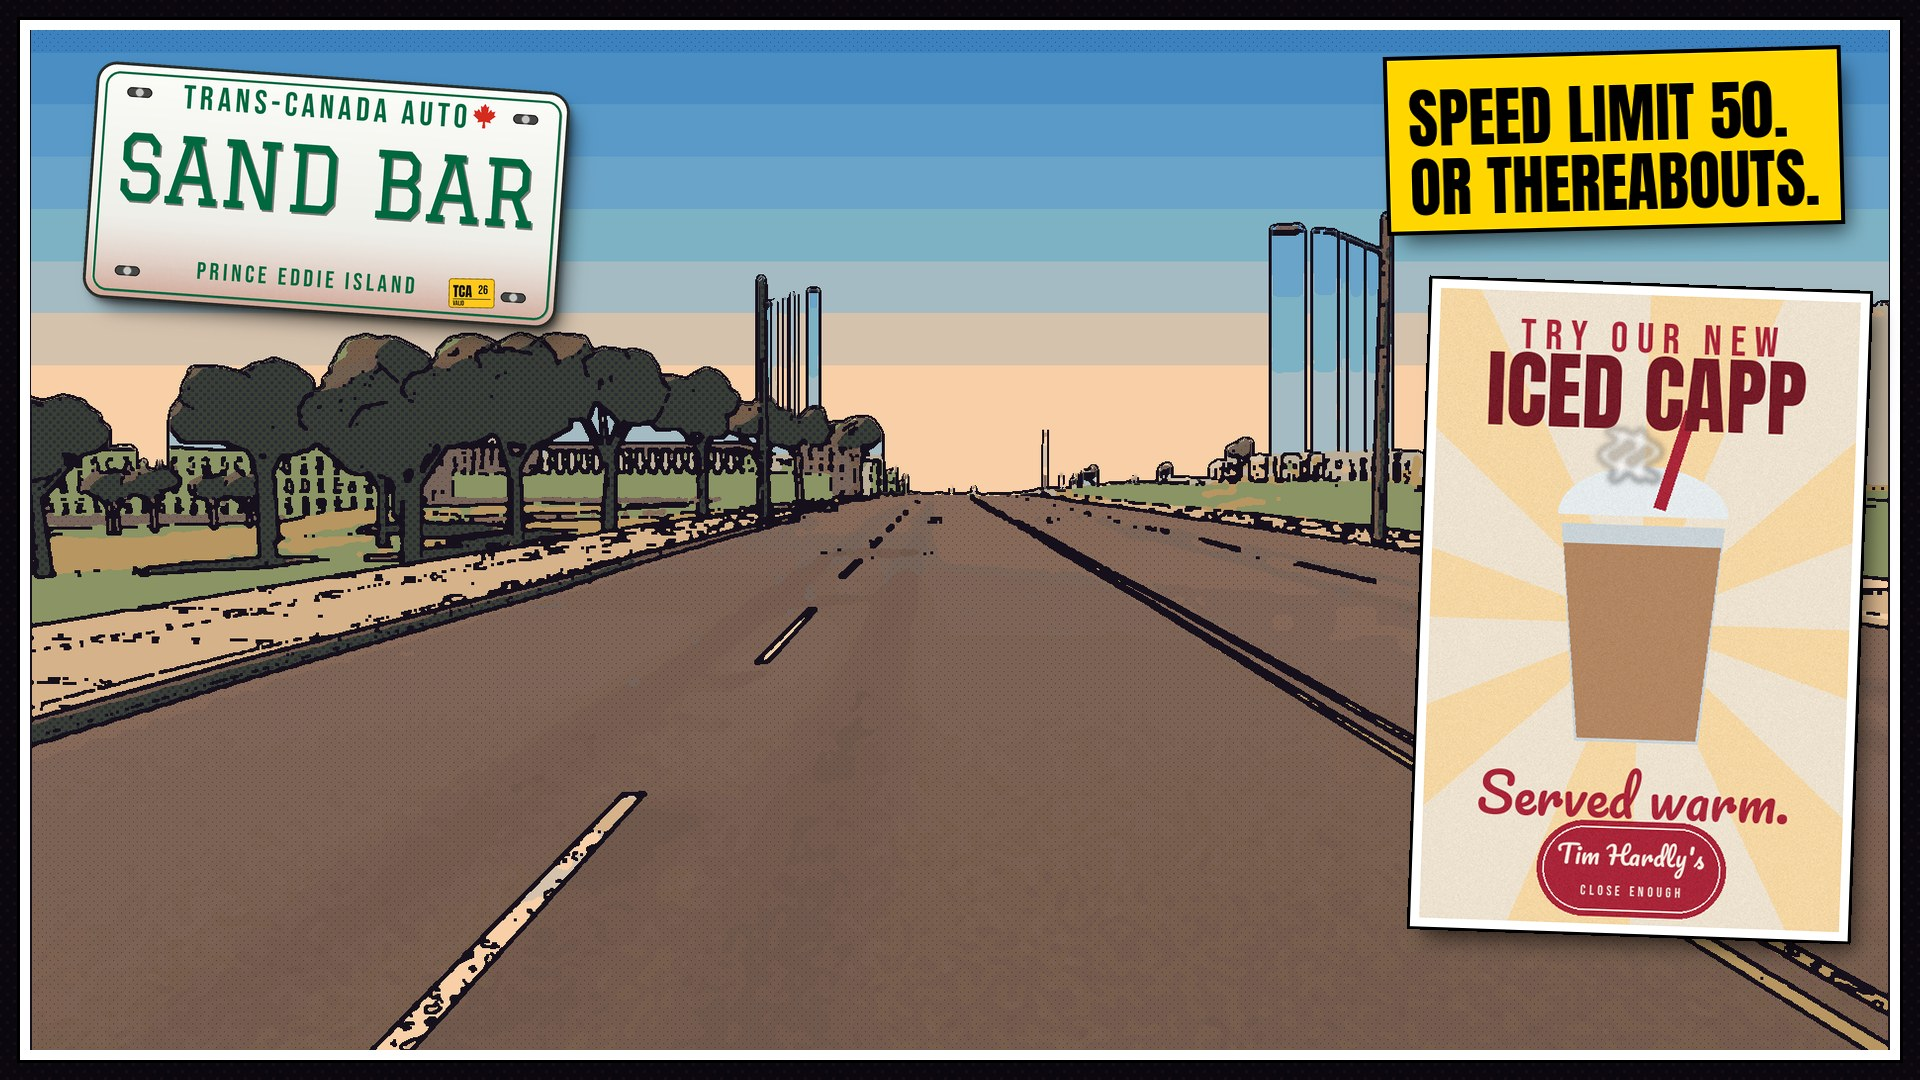
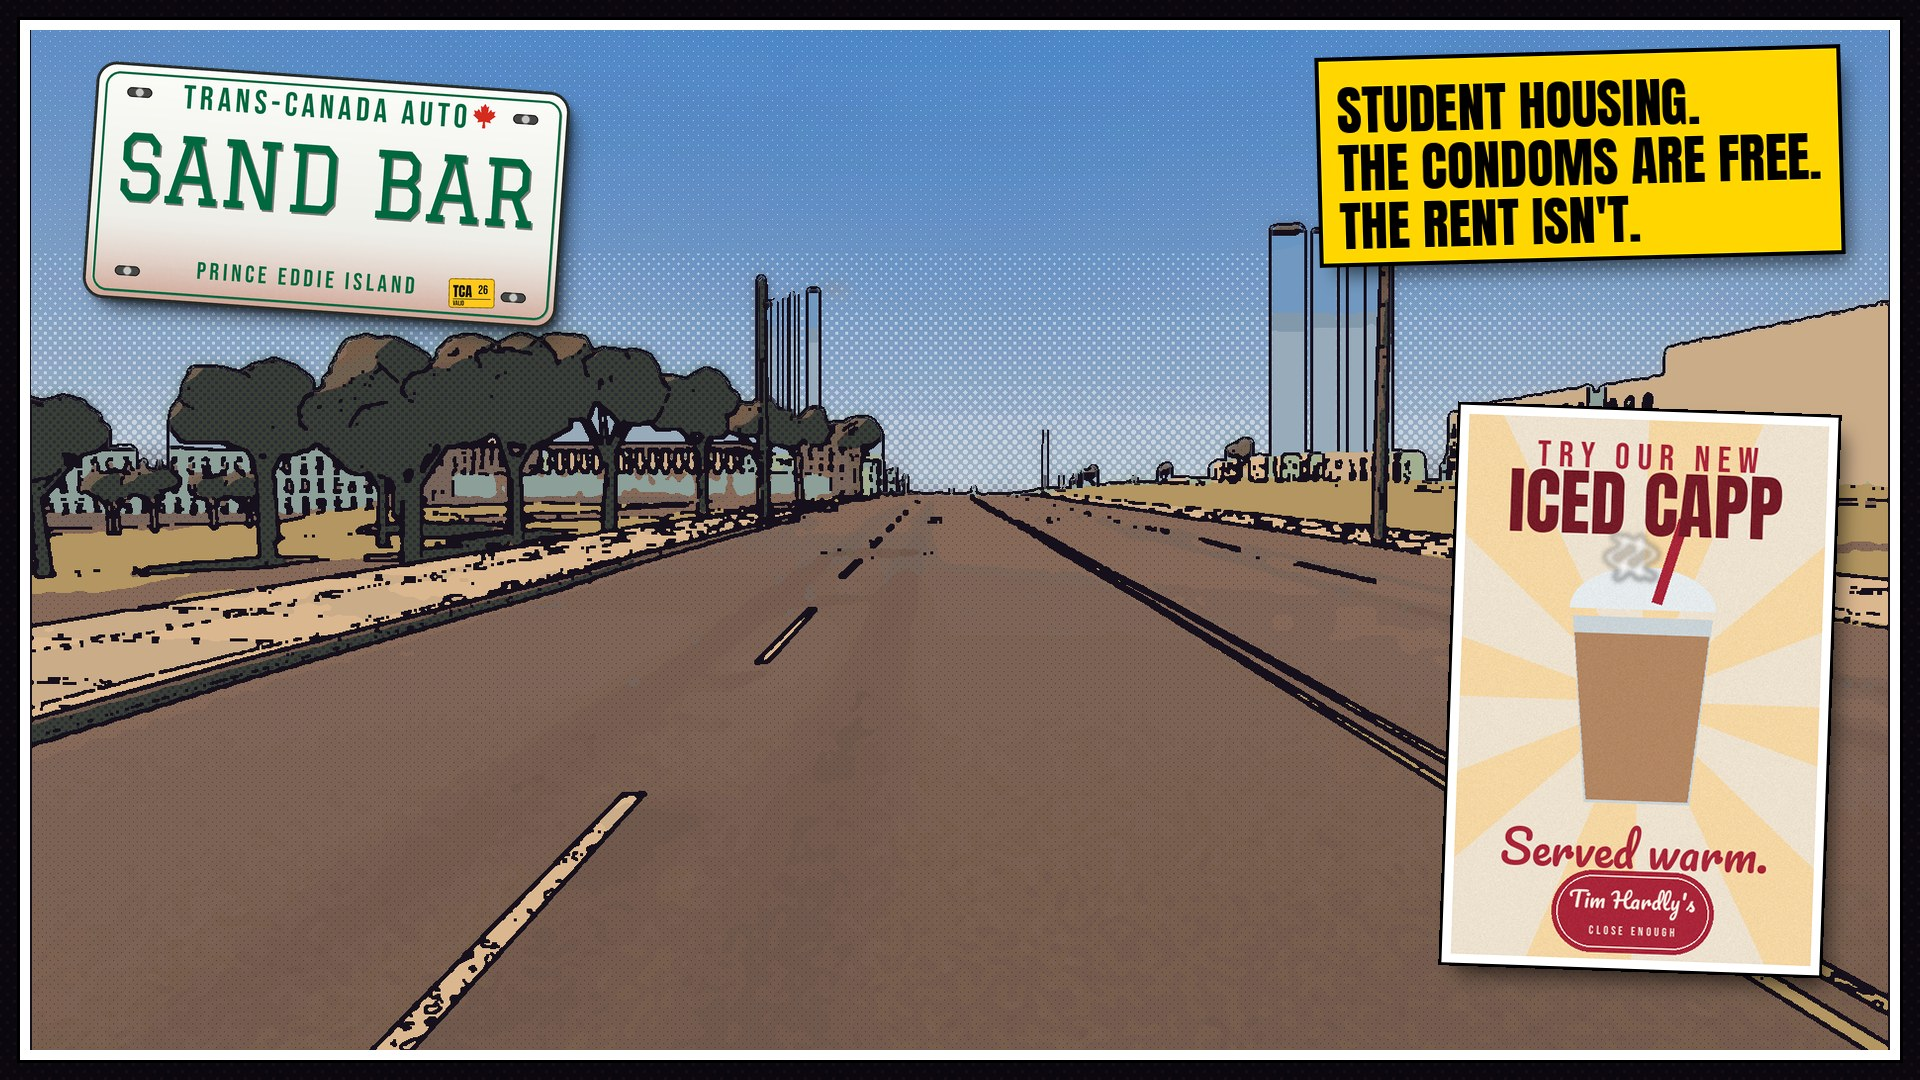
Loading screens under the game's own sky, and new captions
The banded synthwave sunset and striped sun read as copying the other
series, so the panels keep the screenshot's real blue sky, printed with
a white dot screen toward the horizon. Same panels, plate and ads. The
town's Sand Bar billboards and the itch.io images share the look and are
redrawn with it.

New captions: "Your ex is dating your other ex", the fogged windows in
the megastore lot, the Victoria Park benches, last call downtown ("your
nan knows their nan") and student housing ("the condoms are free, the
rent isn't"); and a loading tip about fogged windows in Victoria Park.

Claude-Session: https://claude.ai/code/session_0115Cjrb8d15E6Hnq2mzJ52m

diff --git a/tools/make_branding.py b/tools/make_branding.py
@@ -7,9 +7,10 @@ edition, titled the way their editions are, with the edition's name the
 big thing; ours is stamped on a licence plate: green on white like the
 Island's, "TRANS-CANADA AUTO" where the province goes, "SAND BAR" in the
 middle, a made-up province along the bottom, and TCA on the renewal
-sticker. The loading screens are tilted comic-book panels over a
-screen-printed sunset. The panels are the game's own screenshots
-(branding/screens/), inked and halftoned here, with captions in our own voice.
+sticker. The loading screens are tilted comic-book panels of the game's
+own screenshots (branding/screens/), inked and halftoned here under the
+game's own blue sky, with captions in our own voice. No synthwave sunset:
+that's the other series' look, not the Island's.
 
 Everything is drawn from the screenshots, shapes and the free fonts in
 tools/fonts/, so it can be changed and redrawn any time. Run from the
@@ -56,14 +57,6 @@ YELLOW = (255, 214, 0)
 LEAF_RIGHT = [(50, 0), (57, 13), (65, 9), (62, 36), (74, 22), (77, 30), (90, 27), (86, 41),
               (93, 45), (72, 62), (75, 71), (54, 68), (55, 92)]
 LEAF = LEAF_RIGHT + [(100 - x, y) for x, y in reversed(LEAF_RIGHT[1:])]
-
-# Sky ramps for the panels, top of the sky to the horizon.
-SUNSET = [(0.0, (38, 52, 110)), (0.35, (120, 70, 140)), (0.62, (236, 104, 86)),
-          (0.85, (252, 168, 82)), (1.0, (255, 214, 140))]
-DUSK = [(0.0, (16, 22, 60)), (0.4, (52, 44, 110)), (0.7, (170, 70, 120)),
-        (0.9, (240, 120, 96)), (1.0, (255, 170, 110))]
-MORNING = [(0.0, (60, 130, 190)), (0.45, (120, 180, 214)), (0.75, (246, 200, 160)),
-           (1.0, (255, 226, 180))]
 
 
 def font(name, size):
@@ -337,52 +330,36 @@ def _sky_mask(img):
     return Image.fromarray(run).filter(ImageFilter.GaussianBlur(1.2))
 
 
-def _sky(w, h, horizon, stops, sun):
-    """A banded, screen-printed sky with a striped sun sinking at the horizon."""
-    sky = Image.new("RGB", (w, h))
-    d = ImageDraw.Draw(sky)
-    bands = 9
-    for y in range(h):
-        t = round(min(1.0, y / max(1, horizon)) * bands) / bands
-        d.line([(0, y), (w, y)], fill=_ramp(t, stops))
-    if sun:
-        sx, r = sun[0] * w, sun[1] * h
-        sy = horizon - r * 0.35
-        disc = Image.new("L", (w, h), 0)
-        dd = ImageDraw.Draw(disc)
-        dd.ellipse([sx - r, sy - r, sx + r, sy + r], fill=255)
-        # the stripes across the lower half, thicker toward the bottom
-        y, k = sy, 0
-        while y < sy + r:
-            gapw = 2 + k * 2.2 * (r / 120)
-            dd.rectangle([sx - r, y, sx + r, y + gapw], fill=0)
-            y += gapw + r * 0.12
-            k += 1
-        top, bottom = (255, 236, 120), (255, 92, 70)
-        grad = Image.new("RGB", (w, h))
-        gd = ImageDraw.Draw(grad)
-        for yy in range(int(sy - r), int(sy + r) + 1):
-            gd.line([(0, yy), (w, yy)], fill=_ramp((yy - (sy - r)) / (2 * r), [(0, top), (1, bottom)]))
-        sky.paste(grad, (0, 0), disc)
+def _sky(img, m, dot=10):
+    """The game's own sky, kept: smoothed, a touch bluer, and printed with
+    a white dot screen that thickens toward the horizon, the way a comic
+    shades a sky. (It used to be a banded sunset with a striped sun, which
+    looked like we were copying someone else's sunset.)"""
+    w, h = img.size
+    sky = img.filter(ImageFilter.GaussianBlur(6))
+    sky = ImageEnhance.Color(sky).enhance(1.25)
+    rows = np.asarray(m).sum(axis=1) / 255
+    clear = np.nonzero(rows < w * 0.02)[0]
+    horizon = max(int(clear[0]) if len(clear) else h // 2, h // 4)
+    yy, xx = np.mgrid[0:h, 0:w]
+    t = np.clip(yy / horizon, 0, 1) ** 1.5
+    r = np.hypot(((xx + yy) % dot) - dot / 2, ((xx - yy) % dot) - dot / 2)
+    dots = ((r < t * dot * 0.42) * 120).astype(np.uint8)
+    sky.paste((255, 255, 255), (0, 0, w, h), Image.fromarray(dots))
     return sky
 
 
-def comic(img, stops=SUNSET, sun=None, colors=28, dot=8):
-    """A screenshot as a comic panel: the sky swapped for a printed sunset,
-    the colours flattened, ink round the shapes and halftone in the shadows."""
+def comic(img, colors=28, dot=8):
+    """A screenshot as a comic panel: the colours flattened, ink round the
+    shapes, halftone in the shadows, and the sky the game's own."""
     img = img.convert("RGB")
     w, h = img.size
     m = _sky_mask(img)
-    rows = np.asarray(m).sum(axis=1) / 255
-    clear = np.nonzero(rows < w * 0.02)[0]
-    horizon = int(clear[0]) if len(clear) else h // 2
-    sky = _sky(w, h, max(horizon, h // 4), stops, sun)
     src = img.filter(ImageFilter.MedianFilter(7)).filter(ImageFilter.MedianFilter(5))
     src = ImageEnhance.Color(src).enhance(1.5)
     src = ImageEnhance.Contrast(src).enhance(1.15)
     a = np.asarray(src).astype(np.float32) * np.array([1.06, 0.99, 0.9]) + np.array([8, 0, -4])
     src = Image.fromarray(np.clip(a, 0, 255).astype(np.uint8))
-    src = Image.composite(sky, src, m)
     flat = src.quantize(colors=colors, method=Image.Quantize.MEDIANCUT, dither=Image.Dither.NONE).convert("RGB")
     flat = flat.filter(ImageFilter.ModeFilter(7))
     # Ink: the edges of the scene (none inside the sky), and the skyline.
@@ -391,14 +368,14 @@ def comic(img, stops=SUNSET, sun=None, colors=28, dot=8):
     e = e.filter(ImageFilter.MaxFilter(3)).filter(ImageFilter.GaussianBlur(1.0)).point(lambda v: 255 if v > 100 else 0)
     ink = np.asarray(e).astype(np.float32) * (1 - np.asarray(m).astype(np.float32) / 255)
     ink += (np.asarray(m.filter(ImageFilter.FIND_EDGES)) > 40) * 255.0
-    out = flat.copy()
-    out.paste(INK, (0, 0, w, h), Image.fromarray(np.clip(ink, 0, 255).astype(np.uint8)))
     # Halftone dots in the shadows, on a 45 degree screen.
     lum = np.asarray(ImageOps.grayscale(flat)).astype(np.float32) / 255
     yy, xx = np.mgrid[0:h, 0:w]
     r = np.hypot(((xx + yy) % dot) - dot / 2, ((xx - yy) % dot) - dot / 2)
     dark = np.clip((0.5 - lum) / 0.5, 0, 1)
-    out.paste((30, 20, 50), (0, 0, w, h), Image.fromarray(((r < dark * dot * 0.6) * 110).astype(np.uint8)))
+    flat.paste((30, 20, 50), (0, 0, w, h), Image.fromarray(((r < dark * dot * 0.6) * 110).astype(np.uint8)))
+    out = Image.composite(_sky(img, m), flat, m)
+    out.paste(INK, (0, 0, w, h), Image.fromarray(np.clip(ink, 0, 255).astype(np.uint8)))
     return out
 
 
@@ -464,19 +441,19 @@ def cover_screen():
     img = _backdrop(W, H)
     panels = [
         # art, (cx, cy), (w, h), angle, caption, caption corner
-        (comic(_screen("downtown"), SUNSET, sun=(0.82, 0.16)), (330, 170), (600, 300), 1.2,
-         "Everyone here\nknows your mother.", "bl"),
-        (comic(_screen("megastore"), DUSK, sun=(0.2, 0.25)), (960, 160), (560, 290), -1.3,
-         "Parking lot the\nsize of Summerside.", "br"),
-        (comic(_screen("macdougalls"), DUSK, sun=(0.15, 0.2)), (1592, 172), (600, 305), -0.8,
+        (comic(_screen("downtown")), (330, 170), (600, 300), 1.2,
+         "Your ex is dating\nyour other ex.", "bl"),
+        (comic(_screen("megastore")), (960, 160), (560, 290), -1.3,
+         "Biggest lot in town.\nWindows fog up by ten.", "br"),
+        (comic(_screen("macdougalls")), (1592, 172), (600, 305), -0.8,
          "Breakfast until 11.\nNo exceptions.", "br"),
-        (comic(_screen("victoria-park"), MORNING), (300, 540), (520, 290), -1.8,
-         "The harbour's that way.\nEverything's that way.", "tl"),
-        (comic(_screen("roundabout"), SUNSET), (310, 912), (580, 300), -1.4,
+        (comic(_screen("victoria-park")), (300, 540), (520, 290), -1.8,
+         "Victoria Park. The\nbenches have seen things.", "tl"),
+        (comic(_screen("roundabout")), (310, 912), (580, 300), -1.4,
          "Yield. Then yield\nagain. Then go.", "tl"),
-        (comic(_screen("gas-station"), MORNING), (960, 922), (560, 290), 0.9,
+        (comic(_screen("gas-station")), (960, 922), (560, 290), 0.9,
          "Fill 'er up.\nSay sorry.", "tr"),
-        (comic(_screen("riverside"), SUNSET, sun=(0.47, 0.22)), (1600, 905), (600, 310), 1.6,
+        (comic(_screen("riverside")), (1600, 905), (600, 310), 1.6,
          "Nobody locks\ntheir car here.", "bl"),
     ]
     for art, (cx, cy), (w, h), ang, cap, corner in panels:
@@ -494,14 +471,14 @@ def cover_screen():
     return img.convert("RGB")
 
 
-def hero_screen(shot, stops, sun, caption, inset, inset_pos, focus=(0.5, 0.5)):
+def hero_screen(shot, caption, inset, inset_pos, focus=(0.5, 0.5)):
     """One big panel filling the screen, a smaller tilted panel tucked in,
     the wordmark in the corner and a caption across it. A long caption
     (more than two lines) is set smaller, and the inset sits lower to
     make room for it."""
     W, H = 1920, 1080
     img = _backdrop(W, H)
-    art = comic(_fill(_screen(shot), 1880, 1040, focus), stops, sun=sun)
+    art = comic(_fill(_screen(shot), 1880, 1040, focus))
     _place(img, _panel(art, 1860, 1020, 0.0, border=10), W / 2, H / 2, shadow=False)
     long = caption.count("\n") >= 2
     iw = 360 if long else 420
@@ -516,16 +493,16 @@ def hero_screen(shot, stops, sun, caption, inset, inset_pos, focus=(0.5, 0.5)):
 def loading_screens():
     return [
         cover_screen(),
-        hero_screen("riverside", SUNSET, (0.5, 0.2), "Nobody locks their car here.\nJust saying.",
+        hero_screen("riverside", "Nobody locks their car here.\nJust saying.",
                     _ad("windys_greasy"), (1640, 600, -3.0)),
-        hero_screen("queen-street", DUSK, (0.2, 0.18), "Island time\nis not a speed.",
+        hero_screen("queen-street", "Last call downtown.\nWhoever you go home with,\nyour nan knows their nan.",
                     _ad("macdougalls_flurry"), (1650, 620, 2.5)),
-        hero_screen("university", MORNING, None, "Speed limit 50.\nOr thereabouts.",
+        hero_screen("university", "Student housing.\nThe condoms are free.\nThe rent isn't.",
                     _ad("tim_hardlys_iced_capp"), (1640, 610, -2.0)),
-        hero_screen("roundabout", SUNSET, (0.7, 0.15),
+        hero_screen("roundabout",
                     "We have roundabouts.\nAnd roundabouts.\nAnd roundabouts.\nAnd roundabouts.",
                     _ad("tim_hardlys_bagel"), (1660, 620, 3.0)),
-        hero_screen("gas-station", DUSK, (0.3, 0.2),
+        hero_screen("gas-station",
                     "Sorry about the pollution plant.\nSmells like shit all the time.\n"
                     "But you can blame\nyour girlfriend if you want.",
                     _ad("tim_hardlys_hiring"), (1680, 620, -2.5)),
@@ -538,26 +515,26 @@ ADS_OUT = os.path.join(ROOT, "textures", "ads")
 
 # The Sand Bar Tourism Board's billboards: the loading screens' look out on
 # the roads, each put up where it's true (tools/place_billboards.py --near,
-# see TOURISM_BOARDS there). Name: caption, screenshot, sky, sun.
+# see TOURISM_BOARDS there). Name: caption, screenshot.
 TOURISM = {
     "sandbar_bb_roundabouts": ("We have roundabouts.\nAnd roundabouts.\nAnd roundabouts.\nAnd roundabouts.",
-                               "roundabout", SUNSET, (0.75, 0.2)),
+                               "roundabout"),
     "sandbar_bb_plant": ("Sorry about the pollution plant.\nSmells like shit all the time.\n"
-                         "But you can blame\nyour girlfriend if you want.", "gas-station", DUSK, (0.25, 0.22)),
-    "sandbar_bb_recycling": ("That smoke?\nThat's your recycling.\nWe tried.", "megastore", DUSK, (0.2, 0.25)),
-    "sandbar_bb_nurse": ("Drive safe.\nThe nurse is your cousin.", "downtown", SUNSET, (0.82, 0.16)),
-    "sandbar_bb_speed": ("Speed limit 50.\nOr thereabouts.", "university", MORNING, None),
-    "sandbar_bb_mother": ("Everyone here knows\nyour mother.\nDrive accordingly.", "queen-street", DUSK, (0.2, 0.18)),
-    "sandbar_bb_locks": ("Nobody locks\ntheir car here.\nJust saying.", "riverside", SUNSET, (0.5, 0.2)),
-    "sandbar_bb_island_time": ("Island time\nis not a speed.", "victoria-park", MORNING, None),
+                         "But you can blame\nyour girlfriend if you want.", "gas-station"),
+    "sandbar_bb_recycling": ("That smoke?\nThat's your recycling.\nWe tried.", "megastore"),
+    "sandbar_bb_nurse": ("Drive safe.\nThe nurse is your cousin.", "downtown"),
+    "sandbar_bb_speed": ("Speed limit 50.\nOr thereabouts.", "university"),
+    "sandbar_bb_mother": ("Everyone here knows\nyour mother.\nDrive accordingly.", "queen-street"),
+    "sandbar_bb_locks": ("Nobody locks\ntheir car here.\nJust saying.", "riverside"),
+    "sandbar_bb_island_time": ("Island time\nis not a speed.", "victoria-park"),
     # the ones that go round on boards anywhere in town
-    "sandbar_bb_from_away": ("Come from away?\nWe can tell.\nYou signal.", "riverside", DUSK, (0.3, 0.2)),
-    "sandbar_bb_seasons": ("Four seasons:\nAlmost winter. Winter.\nStill winter. Road work.", "university", MORNING, None),
-    "sandbar_bb_lobster": ("Lobster used to be\nprison food.\nNow it's forty bucks.", "victoria-park", SUNSET, (0.7, 0.2)),
-    "sandbar_bb_red_dirt": ("The red dirt\ndoesn't wash out.\nWe've tried.", "roundabout", DUSK, (0.3, 0.15)),
-    "sandbar_bb_aunt": ("Your aunt saw that.\nEveryone will know\nby supper.", "queen-street", SUNSET, (0.75, 0.18)),
-    "sandbar_bb_potatoes": ("Potatoes.\nWe have them.\nDon't ask how many.", "megastore", MORNING, None),
-    "sandbar_bb_bridge": ("The bridge is 13 km.\nThe gossip is faster.", "downtown", DUSK, (0.82, 0.16)),
+    "sandbar_bb_from_away": ("Come from away?\nWe can tell.\nYou signal.", "riverside"),
+    "sandbar_bb_seasons": ("Four seasons:\nAlmost winter. Winter.\nStill winter. Road work.", "university"),
+    "sandbar_bb_lobster": ("Lobster used to be\nprison food.\nNow it's forty bucks.", "victoria-park"),
+    "sandbar_bb_red_dirt": ("The red dirt\ndoesn't wash out.\nWe've tried.", "roundabout"),
+    "sandbar_bb_aunt": ("Your aunt saw that.\nEveryone will know\nby supper.", "queen-street"),
+    "sandbar_bb_potatoes": ("Potatoes.\nWe have them.\nDon't ask how many.", "megastore"),
+    "sandbar_bb_bridge": ("The bridge is 13 km.\nThe gossip is faster.", "downtown"),
 }
 
 
@@ -570,11 +547,11 @@ def _fit_caption(text, max_w, max_h, start=96, pad=0.32):
         size -= 4
 
 
-def tourism_billboard(caption, shot, stops, sun):
+def tourism_billboard(caption, shot):
     """A 1536 x 480 billboard: a comic panel of the town across the whole
     face, the caption on its yellow card, the plate, and the fine print."""
     W, H = 1536, 480
-    art = comic(_fill(_screen(shot), W, H), stops, sun=sun).convert("RGBA")
+    art = comic(_fill(_screen(shot), W, H)).convert("RGBA")
     # the caption as big as the board allows: nearly its full height, and
     # across to the plate
     plate = wordmark(320)
@@ -602,15 +579,15 @@ def cover():
     w, h = 630, 500
     img = _backdrop(w, h)
     panels = [
-        # shot, sky, sun, (cx, cy), angle, caption, caption corner
-        ("riverside", SUNSET, (0.5, 0.2), (158, 84), 1.4, "Nobody locks\ntheir car here.", "tl"),
-        ("macdougalls", DUSK, (0.15, 0.2), (474, 88), -1.2, "Breakfast until 11.\nNo exceptions.", "tr"),
-        ("roundabout", SUNSET, (0.7, 0.15), (156, 414), -1.6, "Yield. Then yield\nagain. Then go.", "bl"),
-        ("gas-station", MORNING, None, (474, 410), 1.1, "Fill 'er up.\nSay sorry.", "br"),
+        # shot, (cx, cy), angle, caption, caption corner
+        ("riverside", (158, 84), 1.4, "Nobody locks\ntheir car here.", "tl"),
+        ("macdougalls", (474, 88), -1.2, "Breakfast until 11.\nNo exceptions.", "tr"),
+        ("roundabout", (156, 414), -1.6, "Yield. Then yield\nagain. Then go.", "bl"),
+        ("gas-station", (474, 410), 1.1, "Fill 'er up.\nSay sorry.", "br"),
     ]
     pw, ph = 296, 160
-    for shot, stops, sun, (cx, cy), ang, cap, corner in panels:
-        art = comic(_fill(_screen(shot), 960, 540), stops, sun=sun)
+    for shot, (cx, cy), ang, cap, corner in panels:
+        art = comic(_fill(_screen(shot), 960, 540))
         _place(img, _panel(art, pw, ph, ang, border=5), cx, cy)
         c = _caption(cap.upper(), 14, angle=-ang * 1.5)
         ox = -pw / 2 + c.width / 2 + 6 if corner[1] == "l" else pw / 2 - c.width / 2 - 6
@@ -623,10 +600,10 @@ def cover():
 
 
 def banner():
-    """itch.io banner, 960 x 300: the drive in at sunset, the plate, a caption."""
+    """itch.io banner, 960 x 300: the drive in, the plate, a caption."""
     w, h = 960, 300
     img = Image.new("RGBA", (w, h), (10, 8, 14, 255))
-    art = comic(_fill(_screen("riverside"), w, h), SUNSET, sun=(0.75, 0.2))
+    art = comic(_fill(_screen("riverside"), w, h))
     img.paste(art, (0, 0))
     img.alpha_composite(Image.new("RGBA", (w, h), (10, 8, 14, 60)))
     _place(img, wordmark(420), 250, h / 2)
